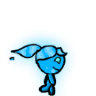
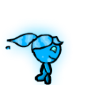
캐릭터 사이즈 수정

Changed region(s): [[0.0471, 0.3059, 0.7529, 1.0], [0.4941, 0.6588, 0.5176, 0.6824]]

diff --git a/fbwg game/src/fbwg_1/Music.java b/fbwg game/src/fbwg_1/Music.java
@@ -1,55 +1,55 @@
-//package fbwg_1;
-//
-//import java.io.BufferedInputStream;
-//import java.io.File;
-//import java.io.FileInputStream;
-//
-//import javazoom.jl.player.Player;
-//
-//public class Music extends Thread {
-//	private Player player;
-//	private boolean isLoop;
-//	private File file;
-//	private FileInputStream fis;
-//	private BufferedInputStream bis;
-//	
-//	public Music(String name, boolean isLoop) {
-//		try {
-//			this.isLoop = isLoop;
-//			file = new File(Main.class.getResource("../music/" + name).toURI());
-//			fis = new FileInputStream(file);
-//			bis = new BufferedInputStream(fis);
-//			player = new Player(bis);
-//		} catch (Exception e) {
-//			
-//		}
-//	}
-//	
-//	public void close() {
-//		isLoop = false;
-//		player.close();
-//		this.interrupt();
-//	}
-//	
-//	@Override
-//	public void run() {
-//		try {
-//			do {
-//				player.play();
-//				fis = new FileInputStream(file);
-//				bis = new BufferedInputStream(fis);
-//				player = new Player(bis);
-//			} while(isLoop);
-//		} catch (Exception e) {
-//			
-//		}
-//	}
-//	public int getTime() {
-//		if(player ==null)
-//			return 0;
-//		return player.getPosition();
-//	}
-//
-//}
+package fbwg_1;
+
+import java.io.BufferedInputStream;
+import java.io.File;
+import java.io.FileInputStream;
+
+import javazoom.jl.player.Player;
+
+public class Music extends Thread {
+	private Player player;
+	private boolean isLoop;
+	private File file;
+	private FileInputStream fis;
+	private BufferedInputStream bis;
+	
+	public Music(String name, boolean isLoop) {
+		try {
+			this.isLoop = isLoop;
+			file = new File(Main.class.getResource("../music/" + name).toURI());
+			fis = new FileInputStream(file);
+			bis = new BufferedInputStream(fis);
+			player = new Player(bis);
+		} catch (Exception e) {
+			
+		}
+	}
+	
+	public void close() {
+		isLoop = false;
+		player.close();
+		this.interrupt();
+	}
+	
+	@Override
+	public void run() {
+		try {
+			do {
+				player.play();
+				fis = new FileInputStream(file);
+				bis = new BufferedInputStream(fis);
+				player = new Player(bis);
+			} while(isLoop);
+		} catch (Exception e) {
+			
+		}
+	}
+	public int getTime() {
+		if(player ==null)
+			return 0;
+		return player.getPosition();
+	}
+
+}
 
 
